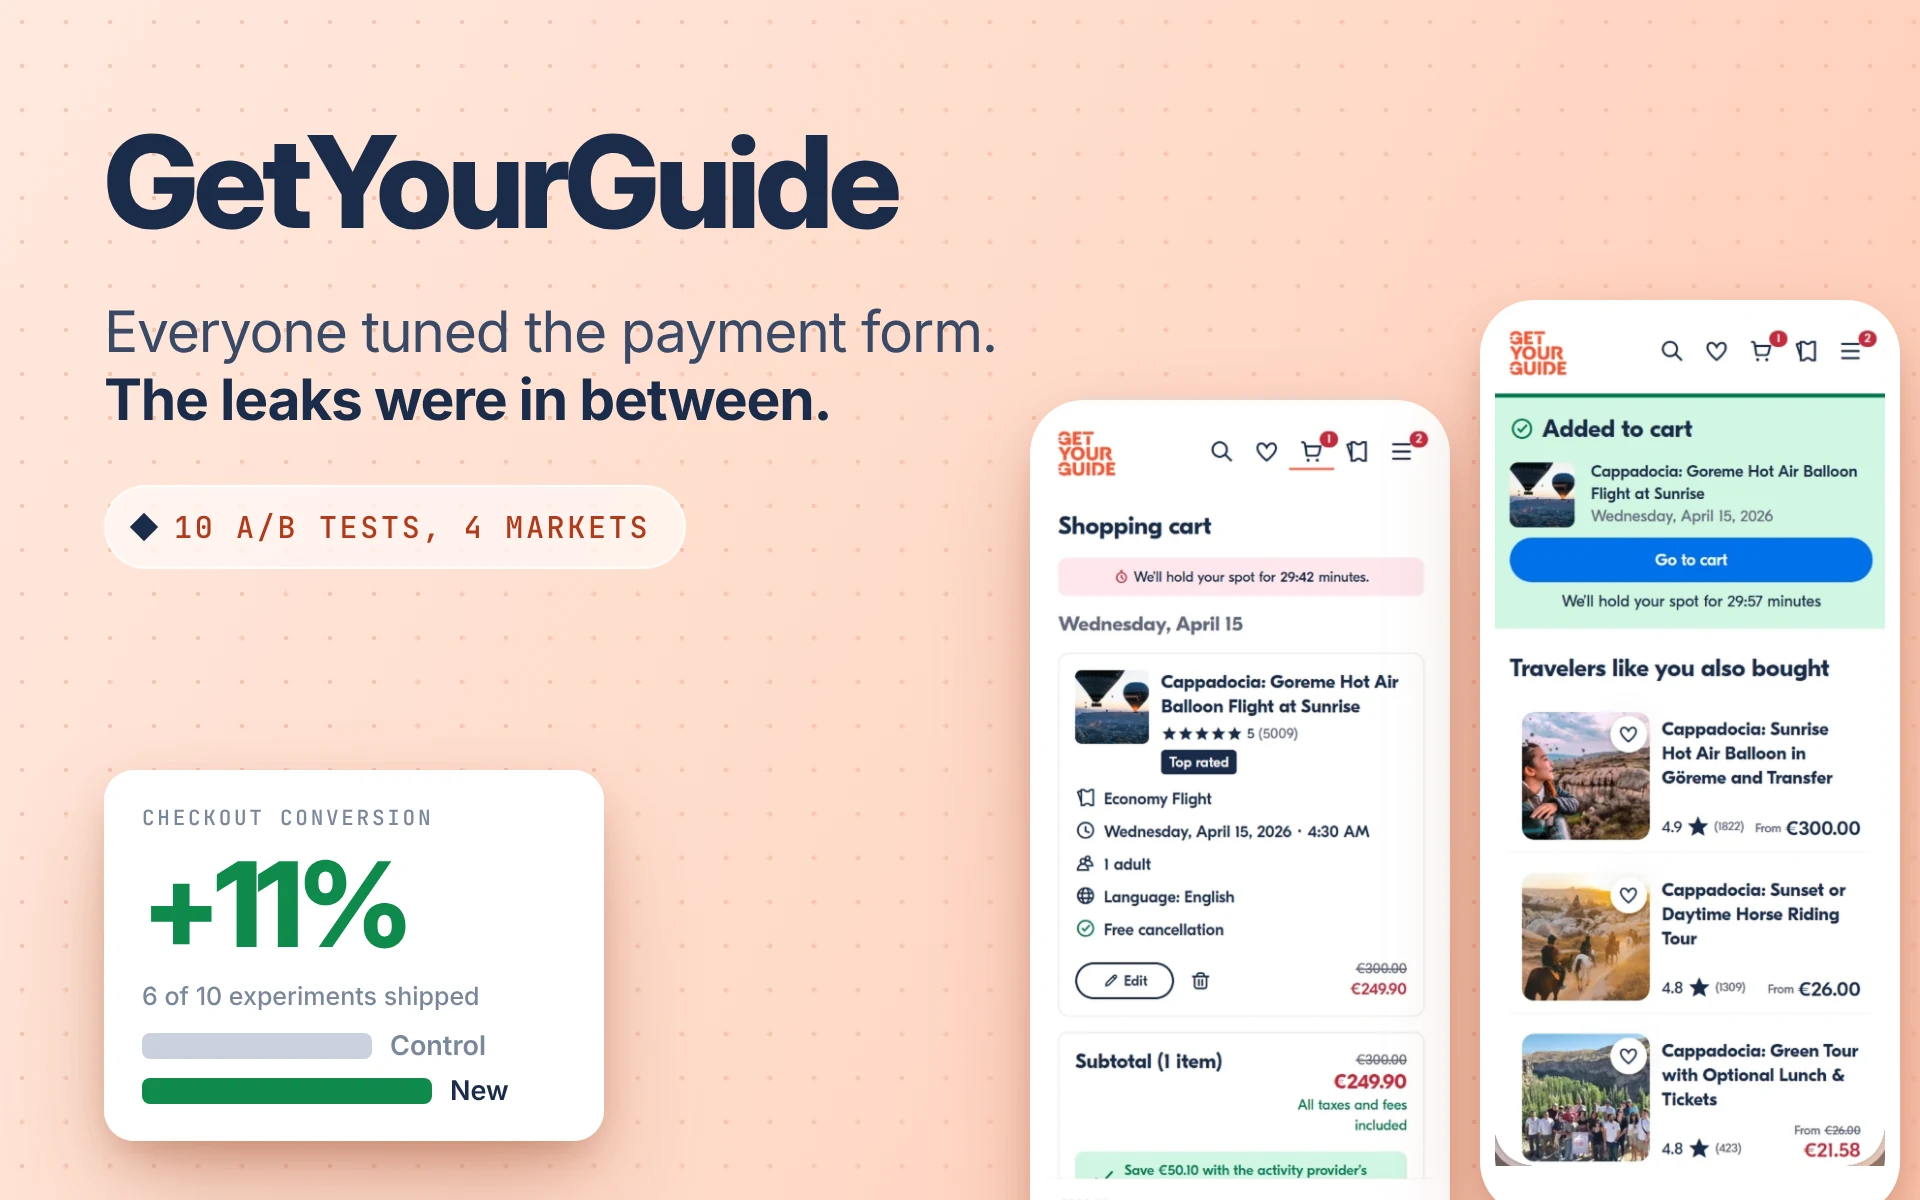
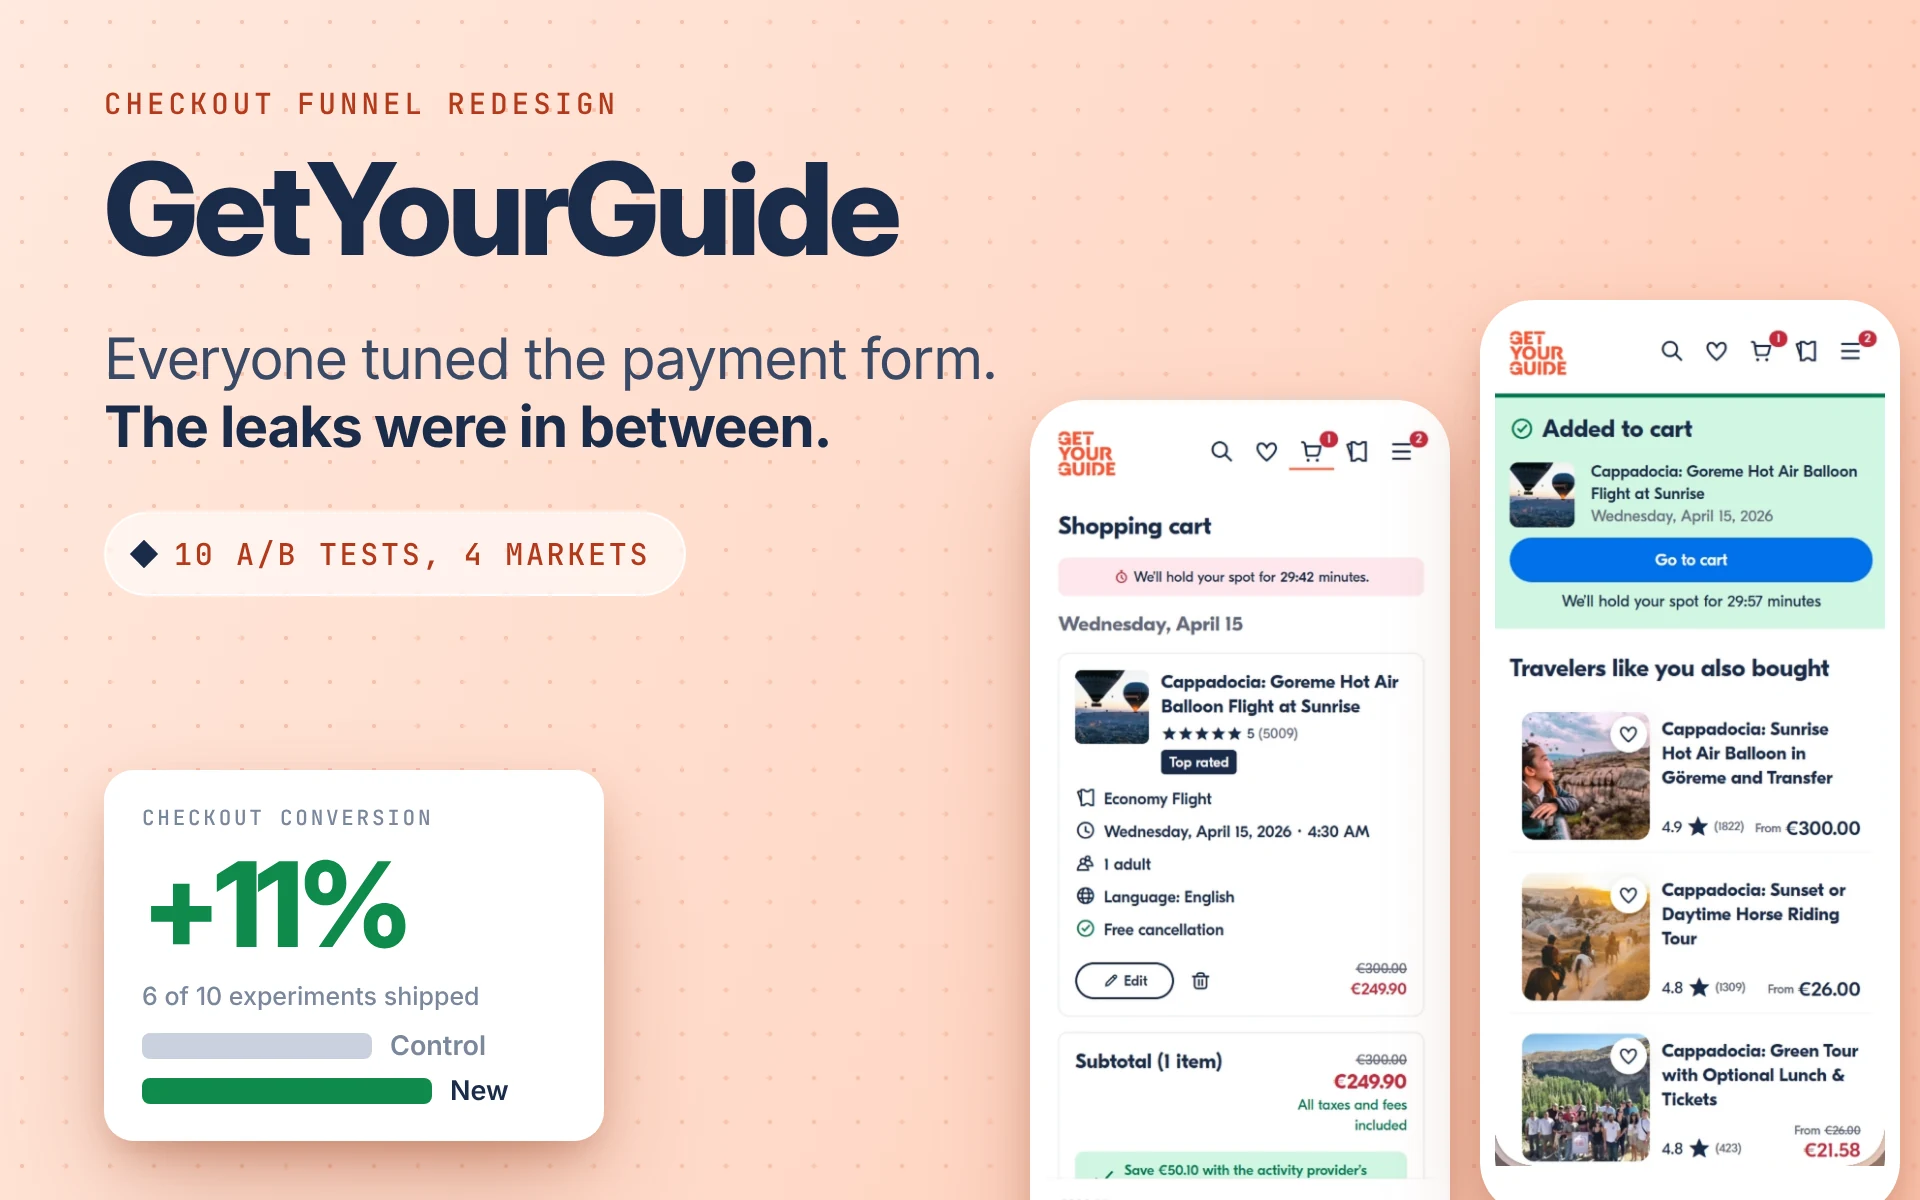
Home thumbnails: descriptor line on GetYourGuide and KODO
Claude-Session: https://claude.ai/code/session_01HvDhLRpg4a3zYGk4NLmBHG

Changed region(s): [[0.0312, 0.2467, 0.5312, 0.37], [0.0312, 0.0617, 0.4688, 0.2158], [0.0625, 0.4008, 0.375, 0.5242]]

diff --git a/index.html b/index.html
@@ -938,11 +938,11 @@ window.addEventListener('DOMContentLoaded',function(){
 <div class="cards">
 <a href="work/shelfflow.html" class="cd cd--f cd--5"><div class="cd__img"><img src="img/shelfflow/flagship-card.webp?v=1118c" width="2374" height="1118" decoding="async" alt="ShelfFlow: six agents do the work, four people decide what ships" style="width:100%;height:100%;object-fit:cover;object-position:center;position:absolute;inset:0"></div><div class="cd__body"><div class="cd__type"><span class="cd__tag cd__tag--who">Enterprise CPG / NDA</span><span class="cd__tag cd__tag--what">Agentic Pipeline</span><span class="cd__tag cd__tag--result">1 Brief &#8594; 36 Packages</span><span class="cd__tag cd__tag--live">Interactive Demo</span></div><h3 class="cd__name">ShelfFlow</h3><p class="cd__desc">The supervision interface for an agentic content pipeline: six AI agents generate and adapt, four human gates decide what ships across retailers.</p><div class="cd__foot"><span class="cd__yr">View case study</span><span class="cd__go">&#8594;</span></div></div></a>
 <a href="work/acervo.html" class="cd cd--f cd--1"><div class="cd__img"><img src="img/acervo-card.webp" width="2374" height="1118" decoding="async" alt="Acervo private automotive collections" style="width:100%;height:100%;object-fit:cover;object-position:center;position:absolute;inset:0"></div><div class="cd__body"><div class="cd__type"><span class="cd__tag cd__tag--who">Acervo / Private client, Mexico</span><span class="cd__tag cd__tag--what">AI Build / Agent Team</span><span class="cd__tag cd__tag--result">17 Days to Production</span><span class="cd__tag cd__tag--live">Live at app.acervogroup.com</span></div><h3 class="cd__name">Acervo</h3><p class="cd__desc">A private platform for a serious car collection, built for a private collector in Mexico. Scoped, designed and shipped solo with eight AI agents under two human gates.</p><div class="cd__foot"><span class="cd__yr">View case study</span><span class="cd__go">&#8594;</span></div></div></a>
-<a href="work/checkout.html" class="cd cd--3"><div class="cd__img"><img src="img/gyg-card.webp?v=1118u" width="1920" height="1200" decoding="async" loading="lazy" alt="GetYourGuide checkout redesign: the funnel leaked between steps, +11% conversion" style="width:100%;height:100%;object-fit:cover;position:absolute;inset:0"></div><div class="cd__body"><div class="cd__type"><span class="cd__tag cd__tag--who">GetYourGuide</span><span class="cd__tag cd__tag--what">CRO / 10 A/B Tests</span><span class="cd__tag cd__tag--result">+11% Conversion</span><span class="cd__tag cd__tag--live">Live in Production</span></div><h3 class="cd__name">Checkout Funnel Redesign</h3><p class="cd__desc">The team was optimizing the wrong step. 38% of converters left checkout and came back to nothing. Ten experiments on the gap nobody measured.</p><div class="cd__foot"><span class="cd__yr">View case study</span><span class="cd__go">&#8594;</span></div></div></a>
+<a href="work/checkout.html" class="cd cd--3"><div class="cd__img"><img src="img/gyg-card.webp?v=1118w" width="1920" height="1200" decoding="async" loading="lazy" alt="GetYourGuide checkout redesign: the funnel leaked between steps, +11% conversion" style="width:100%;height:100%;object-fit:cover;position:absolute;inset:0"></div><div class="cd__body"><div class="cd__type"><span class="cd__tag cd__tag--who">GetYourGuide</span><span class="cd__tag cd__tag--what">CRO / 10 A/B Tests</span><span class="cd__tag cd__tag--result">+11% Conversion</span><span class="cd__tag cd__tag--live">Live in Production</span></div><h3 class="cd__name">Checkout Funnel Redesign</h3><p class="cd__desc">The team was optimizing the wrong step. 38% of converters left checkout and came back to nothing. Ten experiments on the gap nobody measured.</p><div class="cd__foot"><span class="cd__yr">View case study</span><span class="cd__go">&#8594;</span></div></div></a>
 <div class="cards__side">
-<a href="work/enso.html" class="cd cd--4"><div class="cd__img"><img src="img/enso-card.webp?v=1118u" width="1920" height="1200" decoding="async" loading="lazy" alt="ENSO Co-Living: risk calibrated urgency cards, +34% booking conversion" style="width:100%;height:100%;object-fit:cover;position:absolute;inset:0"></div><div class="cd__body"><div class="cd__type"><span class="cd__tag cd__tag--who">ENSO Co-Living</span><span class="cd__tag cd__tag--what">PropTech Onboarding</span><span class="cd__tag cd__tag--result">+34% Booking Conversion</span></div><h3 class="cd__name">ENSO Co-Living</h3><p class="cd__desc">A tenant app nobody used and a booking flow that lost people at the end. Rebuilt both on one platform, A/B validated, across four cities in Spain and Portugal.</p><div class="cd__foot"><span class="cd__yr">View case study</span><span class="cd__go">&#8594;</span></div></div></a>
-<a href="work/kodo.html" class="cd cd--2"><div class="cd__img"><img src="img/kodo/thumbnail-card.webp?v=1118u" width="1920" height="1200" decoding="async" loading="lazy" alt="KŌDO Arbitrage: from 23 metrics to one question" style="width:100%;height:100%;object-fit:cover;position:absolute;inset:0"></div><div class="cd__body"><div class="cd__type"><span class="cd__tag cd__tag--who">Personal Project</span><span class="cd__tag cd__tag--what">Trading Interface</span><span class="cd__tag cd__tag--result">23 Metrics &#8594; 1 Decision</span><span class="cd__tag cd__tag--live">Live</span></div><h3 class="cd__name">KŌDO Arbitrage</h3><p class="cd__desc">My own arbitrage bot for perpetual futures. v1 showed 23 metrics and the operator could not decide in under 30 minutes. v2 answers one question.</p><div class="cd__foot"><span class="cd__yr">View case study</span><span class="cd__go">&#8594;</span></div></div></a>
-<a href="work/retailnorm.html" class="cd cd--1"><div class="cd__img"><img src="img/retailnorm-card.webp?v=1118u" width="1920" height="1200" decoding="async" loading="lazy" alt="RetailNorm: three platforms normalized into one ROAS" style="width:100%;height:100%;object-fit:cover;position:absolute;inset:0"></div><div class="cd__body"><div class="cd__type"><span class="cd__tag cd__tag--who">Personal Product</span><span class="cd__tag cd__tag--what">Retail Media Analytics</span><span class="cd__tag cd__tag--result">40x Reporting Speed</span><span class="cd__tag cd__tag--live">Live</span></div><h3 class="cd__name">RetailNorm</h3><p class="cd__desc">Retail media analytics across platforms. Incomparable ROAS data normalized into one view that executives and analysts both trust.</p><div class="cd__foot"><span class="cd__yr">View case study</span><span class="cd__go">&#8594;</span></div></div></a>
+<a href="work/enso.html" class="cd cd--4"><div class="cd__img"><img src="img/enso-card.webp?v=1118w" width="1920" height="1200" decoding="async" loading="lazy" alt="ENSO Co-Living: risk calibrated urgency cards, +34% booking conversion" style="width:100%;height:100%;object-fit:cover;position:absolute;inset:0"></div><div class="cd__body"><div class="cd__type"><span class="cd__tag cd__tag--who">ENSO Co-Living</span><span class="cd__tag cd__tag--what">PropTech Onboarding</span><span class="cd__tag cd__tag--result">+34% Booking Conversion</span></div><h3 class="cd__name">ENSO Co-Living</h3><p class="cd__desc">A tenant app nobody used and a booking flow that lost people at the end. Rebuilt both on one platform, A/B validated, across four cities in Spain and Portugal.</p><div class="cd__foot"><span class="cd__yr">View case study</span><span class="cd__go">&#8594;</span></div></div></a>
+<a href="work/kodo.html" class="cd cd--2"><div class="cd__img"><img src="img/kodo/thumbnail-card.webp?v=1118w" width="1920" height="1200" decoding="async" loading="lazy" alt="KŌDO Arbitrage: from 23 metrics to one question" style="width:100%;height:100%;object-fit:cover;position:absolute;inset:0"></div><div class="cd__body"><div class="cd__type"><span class="cd__tag cd__tag--who">Personal Project</span><span class="cd__tag cd__tag--what">Trading Interface</span><span class="cd__tag cd__tag--result">23 Metrics &#8594; 1 Decision</span><span class="cd__tag cd__tag--live">Live</span></div><h3 class="cd__name">KŌDO Arbitrage</h3><p class="cd__desc">My own arbitrage bot for perpetual futures. v1 showed 23 metrics and the operator could not decide in under 30 minutes. v2 answers one question.</p><div class="cd__foot"><span class="cd__yr">View case study</span><span class="cd__go">&#8594;</span></div></div></a>
+<a href="work/retailnorm.html" class="cd cd--1"><div class="cd__img"><img src="img/retailnorm-card.webp?v=1118w" width="1920" height="1200" decoding="async" loading="lazy" alt="RetailNorm: three platforms normalized into one ROAS" style="width:100%;height:100%;object-fit:cover;position:absolute;inset:0"></div><div class="cd__body"><div class="cd__type"><span class="cd__tag cd__tag--who">Personal Product</span><span class="cd__tag cd__tag--what">Retail Media Analytics</span><span class="cd__tag cd__tag--result">40x Reporting Speed</span><span class="cd__tag cd__tag--live">Live</span></div><h3 class="cd__name">RetailNorm</h3><p class="cd__desc">Retail media analytics across platforms. Incomparable ROAS data normalized into one view that executives and analysts both trust.</p><div class="cd__foot"><span class="cd__yr">View case study</span><span class="cd__go">&#8594;</span></div></div></a>
 </div>
 </div></div></div>
 

diff --git a/product-consultant-zurich/index.html b/product-consultant-zurich/index.html
@@ -75,7 +75,7 @@
 <section><div class="mx"><div class="first"><span class="k">A first step that fits most situations</span><p>Product opportunity assessment. Two weeks to understand the business opportunity, identify what should be built, define an initial scope, name the risks and dependencies, and recommend an execution approach. It stands on its own and it is how most engagements start, whether what follows is a build, a product lead in the team or nothing at all.</p><a class="more" href="https://cal.com/inigoangulo/30min" data-cal-link="inigoangulo/30min">Start with the assessment &#8594;</a></div></div></section>
 
 <section><div class="mx"><h2>Proof, not promises</h2>
-<div class="case"><div><span class="tag">GetYourGuide, checkout</span><h3>+11% checkout conversion from the step nobody was measuring</h3><p>The team was optimising the wrong step. 38% of converters left checkout and came back with no re-entry experience. Ten experiments later: +11% conversion across four EU markets.</p><a class="more" href="../work/checkout.html">Read the case study &#8594;</a></div><a href="../work/checkout.html"><img src="../img/gyg-card.webp?v=1118u" alt="+11% checkout conversion from the step nobody was measuring" loading="lazy" decoding="async"></a></div>
+<div class="case"><div><span class="tag">GetYourGuide, checkout</span><h3>+11% checkout conversion from the step nobody was measuring</h3><p>The team was optimising the wrong step. 38% of converters left checkout and came back with no re-entry experience. Ten experiments later: +11% conversion across four EU markets.</p><a class="more" href="../work/checkout.html">Read the case study &#8594;</a></div><a href="../work/checkout.html"><img src="../img/gyg-card.webp?v=1118w" alt="+11% checkout conversion from the step nobody was measuring" loading="lazy" decoding="async"></a></div>
 </div></section>
 
 <section><div class="mx"><h2>Who this is for</h2>

diff --git a/cro-ecommerce-consultant/index.html b/cro-ecommerce-consultant/index.html
@@ -72,7 +72,7 @@
 
 
 <section><div class="mx"><h2>Proof, not promises</h2>
-<div class="case"><div><span class="tag">GetYourGuide, checkout</span><h3>Ten experiments, +11% conversion, four markets</h3><p>The team was optimising the wrong step. The problem was not payment, it was the re-entry experience nobody had measured. The case walks through all ten experiments, including the ones that lost.</p><a class="more" href="../work/checkout.html">Read the case study &#8594;</a></div><a href="../work/checkout.html"><img src="../img/gyg-card.webp?v=1118u" alt="Ten experiments, +11% conversion, four markets" loading="lazy" decoding="async"></a></div>
+<div class="case"><div><span class="tag">GetYourGuide, checkout</span><h3>Ten experiments, +11% conversion, four markets</h3><p>The team was optimising the wrong step. The problem was not payment, it was the re-entry experience nobody had measured. The case walks through all ten experiments, including the ones that lost.</p><a class="more" href="../work/checkout.html">Read the case study &#8594;</a></div><a href="../work/checkout.html"><img src="../img/gyg-card.webp?v=1118w" alt="Ten experiments, +11% conversion, four markets" loading="lazy" decoding="async"></a></div>
 </div></section>
 
 <section><div class="mx"><h2>Who this is for</h2>

diff --git a/ux-design-consultant/index.html b/ux-design-consultant/index.html
@@ -75,7 +75,7 @@
 
 
 <section><div class="mx"><h2>Proof, not promises</h2>
-<div class="case"><div><span class="tag">Enso Co-living</span><h3>4x adoption and +34% booking conversion on one platform</h3><p>Two product challenges, one platform: a tenant app nobody used and a booking flow that lost people at the end. Rebuilt both across Lisbon, Valencia, Madrid and Barcelona.</p><a class="more" href="../work/enso.html">Read the case study &#8594;</a></div><a href="../work/enso.html"><img src="../img/enso-card.webp?v=1118u" alt="4x adoption and +34% booking conversion on one platform" loading="lazy" decoding="async"></a></div>
+<div class="case"><div><span class="tag">Enso Co-living</span><h3>4x adoption and +34% booking conversion on one platform</h3><p>Two product challenges, one platform: a tenant app nobody used and a booking flow that lost people at the end. Rebuilt both across Lisbon, Valencia, Madrid and Barcelona.</p><a class="more" href="../work/enso.html">Read the case study &#8594;</a></div><a href="../work/enso.html"><img src="../img/enso-card.webp?v=1118w" alt="4x adoption and +34% booking conversion on one platform" loading="lazy" decoding="async"></a></div>
 </div></section>
 
 <section><div class="mx"><h2>Who this is for</h2>
